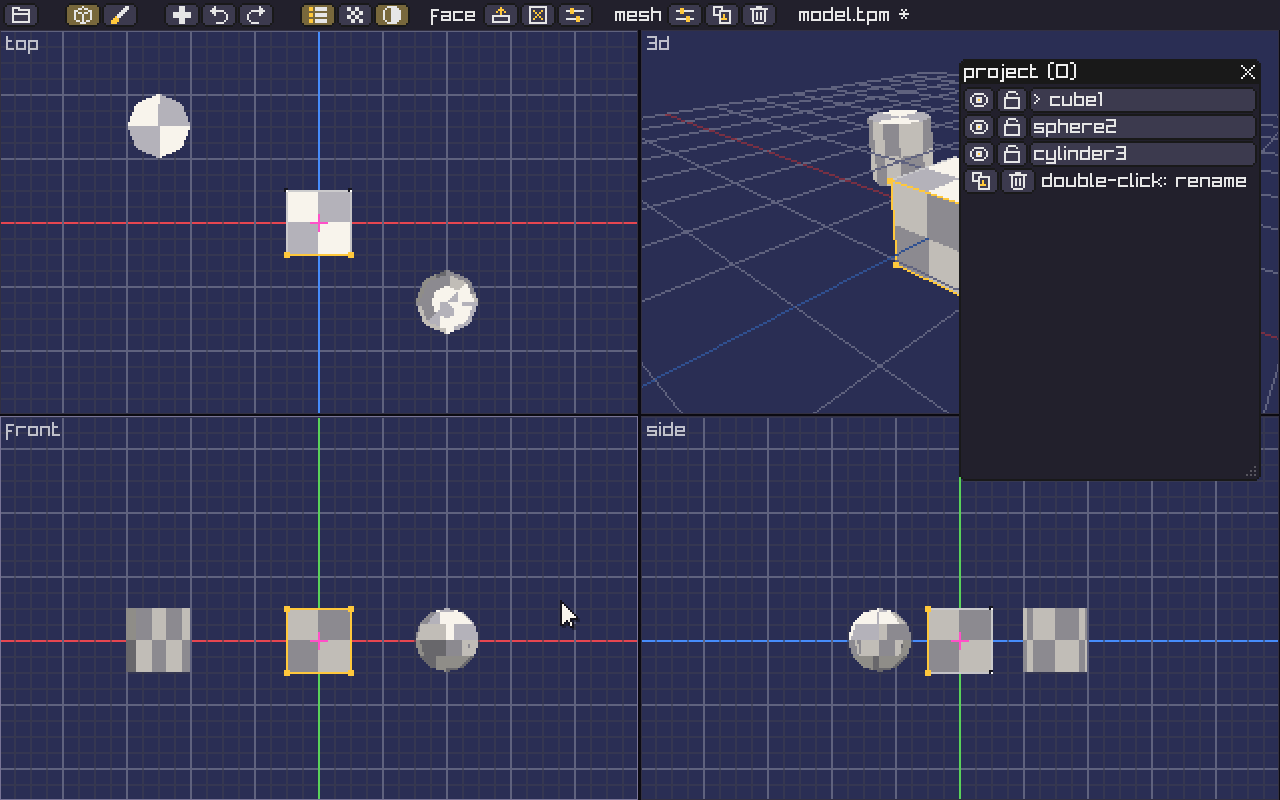
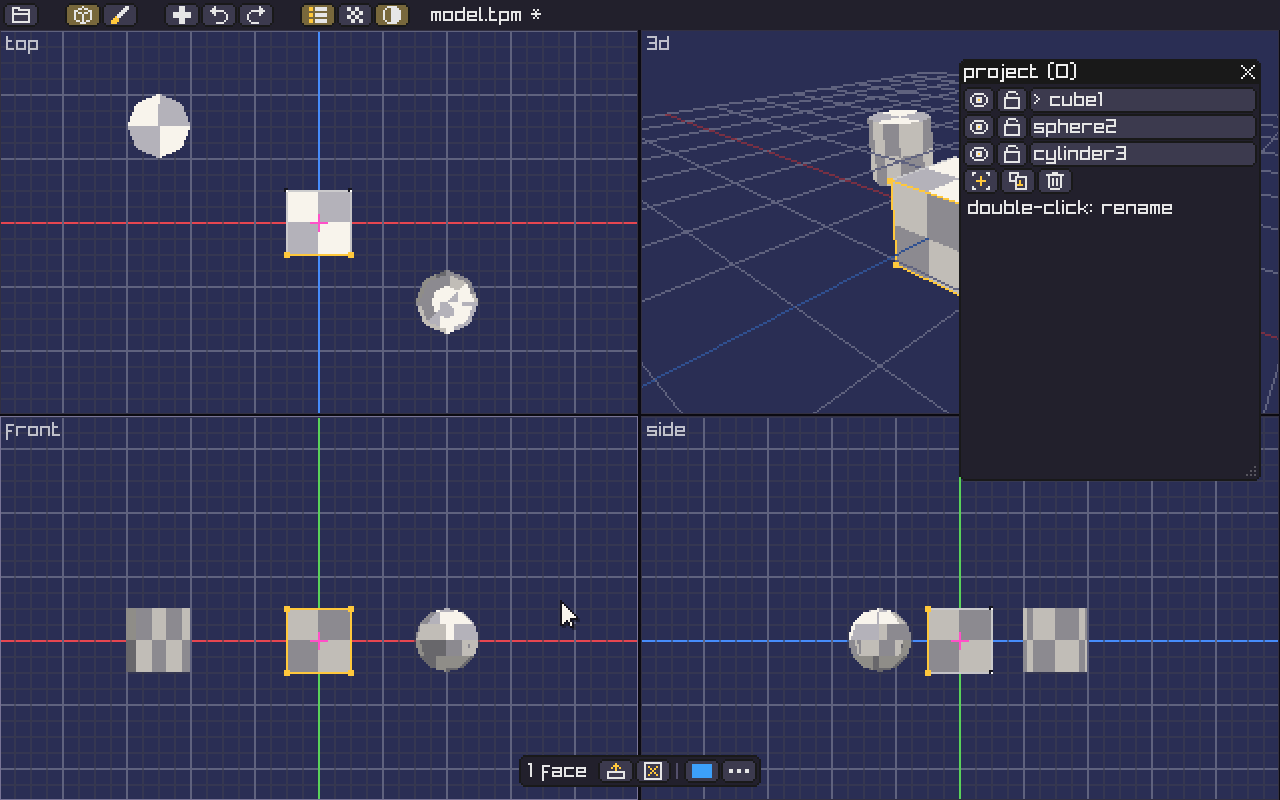
0.5.2: 선택 막대 — 상단바는 고정, 선택 동작은 뷰 아래로
- 면/정점을 고르면 뷰 아래쪽 가운데에 선택 막대 (개수 + 동작 | 설정)
  면: 돌출, 삭제 | 면 색(색 칸), 옵션(...) / 정점: 병합, 스냅, 삭제
- 상단바에서 선택 동작을 빼서 항상 같은 모양
- 메쉬 속성 버튼 제거: 이름·숨김·잠금은 프로젝트 창에 이미 있음,
  원점 가운데로는 프로젝트 창 아이콘으로
- 면 속성 팝업을 색 / 옵션으로 나눠 열 수 있게 (F와 우클릭은 그대로 둘 다)
- 팝업이 화면 밖으로 나가지 않게, 선택 막대에서 연 팝업은 막대 위에

Changed region(s): [[0.75, 0.1875, 0.9688, 0.2812], [0.4062, 0.9375, 0.5938, 1.0], [0.3438, 0.0, 0.7188, 0.0312]]

diff --git a/src/main.c b/src/main.c
@@ -207,6 +207,16 @@ static void face_flag_checkbox(App *a, const char *label, int flag, bool inverte
     if (mu_checkbox(a->ui, label, &on) & MU_RES_CHANGE) model_set_face_flag(a, flag, inverted ? !on : on);
 }
 
+/* 활성 메쉬의 원점(회전·크기 기준점)을 정점들의 가운데로 */
+static void center_origin(App *a) {
+    if (!app_active(a)) return;
+    app_mark(a);
+    Object *o = app_active(a);
+    Vector3 mn = { 1e9f, 1e9f, 1e9f }, mx = { -1e9f, -1e9f, -1e9f };
+    for (int i = 0; i < o->nverts; i++) { mn = Vector3Min(mn, o->verts[i].p); mx = Vector3Max(mx, o->verts[i].p); }
+    if (o->nverts) o->origin = Vector3Scale(Vector3Add(mn, mx), 0.5f);
+}
+
 static void menu_contents(App *a) {
     mu_Context *ctx = a->ui;
     const int w1[] = { 200 };
@@ -246,24 +256,31 @@ static void menu_contents(App *a) {
         if (mu_button(ctx, "copy (ctrl+c)"))         { model_copy(a); close_popup(ctx); }
         if (mu_button(ctx, "delete mesh (ctrl+x)"))  { model_delete_mesh(a); close_popup(ctx); }
         break;
-    case MENU_FACEPROPS: {
+    case MENU_FACEPROPS:
+    case MENU_FACECOLOR:
+    case MENU_FACEOPTS: {
+        /* F/우클릭은 둘 다, 선택 막대의 색 칸은 색만, [...]는 옵션만 */
         Face *f = first_selected_face(a);
         if (!f) { close_popup(ctx); break; }
-        mu_layout_row(ctx, 1, w1, 0);
-        mu_label(ctx, "face color");
-        mu_layout_row(ctx, 8, (int[]){ 22, 22, 22, 22, 22, 22, 22, 22 }, 22);
-        int shown = a->scene.npalette < 64 ? a->scene.npalette : 64;
-        for (int i = 0; i < shown; i++)
-            if (swatch(ctx, 2000 + i, a->scene.palette[i], color_eq(f->color, a->scene.palette[i]), false) == 1)
-                model_set_face_color(a, a->scene.palette[i]);
-        mu_layout_row(ctx, 2, (int[]){ 22, 175 }, 0);
-        ui_swatch(ctx, mu_layout_next(ctx), a->color);
-        if (mu_button(ctx, "use color 1")) model_set_face_color(a, (Color){ a->color.r, a->color.g, a->color.b, 255 });
-        mu_layout_row(ctx, 1, w1, 0);
-        face_flag_checkbox(a, "double sided", FACE_DOUBLE, false);
-        face_flag_checkbox(a, "shaded", FACE_NOSHADE, true);
-        face_flag_checkbox(a, "textured", FACE_NOTEX, true);
-        face_flag_checkbox(a, "draw behind", FACE_BEHIND, false);
+        if (a->menu != MENU_FACEOPTS) {
+            mu_layout_row(ctx, 1, w1, 0);
+            mu_label(ctx, "face color");
+            mu_layout_row(ctx, 8, (int[]){ 22, 22, 22, 22, 22, 22, 22, 22 }, 22);
+            int shown = a->scene.npalette < 64 ? a->scene.npalette : 64;
+            for (int i = 0; i < shown; i++)
+                if (swatch(ctx, 2000 + i, a->scene.palette[i], color_eq(f->color, a->scene.palette[i]), false) == 1)
+                    model_set_face_color(a, a->scene.palette[i]);
+            mu_layout_row(ctx, 2, (int[]){ 22, 175 }, 0);
+            ui_swatch(ctx, mu_layout_next(ctx), a->color);
+            if (mu_button(ctx, "use color 1")) model_set_face_color(a, (Color){ a->color.r, a->color.g, a->color.b, 255 });
+        }
+        if (a->menu != MENU_FACECOLOR) {
+            mu_layout_row(ctx, 1, w1, 0);
+            face_flag_checkbox(a, "double sided", FACE_DOUBLE, false);
+            face_flag_checkbox(a, "shaded", FACE_NOSHADE, true);
+            face_flag_checkbox(a, "textured", FACE_NOTEX, true);
+            face_flag_checkbox(a, "draw behind", FACE_BEHIND, false);
+        }
         break;
     }
     case MENU_MESHPROPS: {
@@ -274,13 +291,7 @@ static void menu_contents(App *a) {
         int hidden = o->hidden, locked = o->locked;
         if (mu_checkbox(ctx, "hidden", &hidden) & MU_RES_CHANGE) { app_mark(a); o = app_active(a); o->hidden = hidden; }
         if (mu_checkbox(ctx, "locked", &locked) & MU_RES_CHANGE) { app_mark(a); o = app_active(a); o->locked = locked; }
-        if (mu_button(ctx, "center to middle")) {
-            app_mark(a);
-            o = app_active(a);
-            Vector3 mn = { 1e9f, 1e9f, 1e9f }, mx = { -1e9f, -1e9f, -1e9f };
-            for (int i = 0; i < o->nverts; i++) { mn = Vector3Min(mn, o->verts[i].p); mx = Vector3Max(mx, o->verts[i].p); }
-            if (o->nverts) o->origin = Vector3Scale(Vector3Add(mn, mx), 0.5f);
-        }
+        if (mu_button(ctx, "center to middle")) center_origin(a);
         break;
     }
     case MENU_UV:
@@ -331,50 +342,6 @@ static void menu_contents(App *a) {
     }
 }
 
-/* 상단바 줄에서 x 위치에 폭 w짜리 칸을 잡고 x를 넘김 */
-static void next_at(mu_Context *ctx, int *x, int w) {
-    mu_layout_set_next(ctx, mu_rect(*x, 0, w, 22), 1);
-    *x += w + ctx->style->spacing;
-}
-
-/* 선택한 것에 따라 쓸 수 있는 동작을 상단바에 보여줌 (우클릭 메뉴와 같은 동작, 키보드 없이도 쓸 수 있게).
-   면 > 정점 중 하나, 메쉬가 골라져 있으면 메쉬 동작도 */
-static void context_actions(App *a, int *x) {
-    mu_Context *ctx = a->ui;
-    Object *o = app_active(a);
-    if (!o) return;
-    int nf = 0, nv = 0;
-    for (int i = 0; i < o->nfaces; i++) nf += o->faces[i].sel;
-    for (int i = 0; i < o->nverts; i++) nv += o->verts[i].sel;
-    const int B = 34, GAP = 16;
-
-    if (nf) {
-        next_at(ctx, x, 54); mu_label(ctx, "face");
-        next_at(ctx, x, B); if (ui_icon_button(ctx, UI_ICON_EXTRUDE, "extrude (E)", false)) model_extrude(a);
-        next_at(ctx, x, B); if (ui_icon_button(ctx, UI_ICON_DEL_FACE, "delete face (X)", false)) model_delete_faces(a);
-        next_at(ctx, x, B);
-        if (ui_icon_button(ctx, UI_ICON_PROPS, "face props: color, sides... (F)", a->menu == MENU_FACEPROPS))
-            app_open_menu(a, MENU_FACEPROPS);
-        *x += GAP;
-    } else if (nv) {
-        next_at(ctx, x, 74); mu_label(ctx, "vertex");
-        next_at(ctx, x, B); if (ui_icon_button(ctx, UI_ICON_MERGE, "merge vertices", false)) model_merge(a);
-        next_at(ctx, x, B); if (ui_icon_button(ctx, UI_ICON_SNAP, "snap to grid", false)) model_snap(a);
-        next_at(ctx, x, B); if (ui_icon_button(ctx, UI_ICON_DEL_VERT, "delete vertex (del)", false)) model_delete_verts(a);
-        *x += GAP;
-    }
-    if (!app_active(a)) return;     /* 위 동작으로 메쉬가 사라졌을 수도 */
-    mu_push_id(ctx, "mesh", 4);     /* 면 속성 버튼과 같은 아이콘이라 구분 */
-    next_at(ctx, x, 54); mu_label(ctx, "mesh");
-    next_at(ctx, x, B);
-    if (ui_icon_button(ctx, UI_ICON_PROPS, "mesh props: name, hide, lock (G)", a->menu == MENU_MESHPROPS))
-        app_open_menu(a, MENU_MESHPROPS);
-    next_at(ctx, x, B); if (ui_icon_button(ctx, UI_ICON_CLONE, "clone mesh", false)) model_clone(a);
-    next_at(ctx, x, B); if (ui_icon_button(ctx, UI_ICON_TRASH, "delete mesh (ctrl+x)", false)) model_delete_mesh(a);
-    mu_pop_id(ctx);
-    *x += GAP;
-}
-
 static void draw_topbar(App *a) {
     mu_Context *ctx = a->ui;
     mu_Container *cnt = mu_get_container(ctx, "top");
@@ -383,13 +350,10 @@ static void draw_topbar(App *a) {
     if (!mu_begin_window_ex(ctx, "top", cnt->rect,
                             MU_OPT_NOTITLE | MU_OPT_NORESIZE | MU_OPT_NOCLOSE | MU_OPT_NOSCROLL | MU_OPT_NOFRAME))
         return;
-    /* [파일]  ·  [모델][텍스처]  ·  [추가][되돌리기][다시]  ·  [프로젝트][렌더][음영]  ·  선택에 따른 동작  파일 이름
+    /* [파일]  ·  [모델][텍스처]  ·  [추가][되돌리기][다시]  ·  [프로젝트][렌더][음영]  파일 이름
        빈 칸(label "")으로 묶음 사이를 띄운다 */
     const int B = 34, GAP = 22;
-    static const int widths[13] = { B, GAP, B, B, GAP, B, B, B, GAP, B, B, B, 12 };
-    mu_layout_row(ctx, 13, widths, 22);
-    int x = 0;   /* 이 줄 다음 칸의 위치 (microui 한 줄은 16칸까지라 뒤쪽은 직접 자리를 잡음) */
-    for (int i = 0; i < 13; i++) x += widths[i] + ctx->style->spacing;
+    mu_layout_row(ctx, 14, (int[]){ B, GAP, B, B, GAP, B, B, B, GAP, B, B, B, 12, -1 }, 22);
     if (ui_icon_button(ctx, UI_ICON_FOLDER, "file", a->menu == MENU_FILE)) app_open_menu(a, MENU_FILE);
     mu_label(ctx, "");
     if (ui_icon_button(ctx, UI_ICON_CUBE, "model mode (tab)", a->mode == MODE_MODEL)) a->mode = MODE_MODEL;
@@ -411,11 +375,59 @@ static void draw_topbar(App *a) {
     if (ui_icon_button(ctx, UI_ICON_SHADE, a->shading ? "shading: on (L)" : "shading: off (L)", a->shading))
         a->shading = !a->shading;
     mu_label(ctx, "");
-    if (a->mode == MODE_MODEL) context_actions(a, &x);
     char buf[300];
     snprintf(buf, sizeof buf, "%s%s", GetFileName(a->path), a->dirty ? " *" : "");   /* 전체 경로는 창 제목에 */
-    next_at(ctx, &x, GetScreenWidth() - x - 16);
     mu_label(ctx, buf);
+    mu_end_window(ctx);
+}
+
+/* 면·정점을 고르면 뷰 아래쪽 가운데에 뜨는 작은 막대.
+   왼쪽은 무엇을 골랐는지, 그다음 동작, 구분선 뒤는 설정 (우클릭 메뉴와 같은 기능) */
+static int g_bar_top;   /* 선택 막대의 위쪽 y (막대에서 연 팝업을 그 위에 띄움) */
+
+static void draw_selection_bar(App *a) {
+    mu_Context *ctx = a->ui;
+    Object *o = app_active(a);
+    int nf = 0, nv = 0;
+    if (o) {
+        for (int i = 0; i < o->nfaces; i++) nf += o->faces[i].sel;
+        for (int i = 0; i < o->nverts; i++) nv += o->verts[i].sel;
+    }
+    if (!nf && !nv) return;
+
+    char label[32];
+    if (nf) snprintf(label, sizeof label, "%d %s", nf, nf == 1 ? "face" : "faces");
+    else snprintf(label, sizeof label, "%d %s", nv, nv == 1 ? "vertex" : "verts");
+    const int B = 34, SEP = 9, L = ctx->text_width(NULL, label, -1) + 14;
+    const int sp = ctx->style->spacing, pad = ctx->style->padding;
+    int w = nf ? L + B * 4 + SEP + sp * 5 : L + B * 3 + sp * 3;
+    w += pad * 2;
+    int h = 22 + pad * 2;
+    mu_Container *cnt = mu_get_container(ctx, "selection");
+    cnt->rect = mu_rect((GetScreenWidth() - w) / 2, GetScreenHeight() - h - 14, w, h);
+    g_bar_top = cnt->rect.y;
+    if (!mu_begin_window_ex(ctx, "selection", cnt->rect,
+                            MU_OPT_NOTITLE | MU_OPT_NORESIZE | MU_OPT_NOCLOSE | MU_OPT_NOSCROLL))
+        return;
+    if (nf) {
+        mu_layout_row(ctx, 6, (int[]){ L, B, B, SEP, B, B }, 22);
+        mu_label(ctx, label);
+        if (ui_icon_button(ctx, UI_ICON_EXTRUDE, "extrude (E)", false)) model_extrude(a);
+        if (ui_icon_button(ctx, UI_ICON_DEL_FACE, "delete face (X)", false)) model_delete_faces(a);
+        mu_Rect r = mu_layout_next(ctx);
+        mu_draw_rect(ctx, mu_rect(r.x + r.w / 2 - 1, r.y + 3, 2, r.h - 6), mu_color(84, 80, 108, 255));
+        Face *f = first_selected_face(a);
+        if (f && ui_swatch_button(ctx, f->color, "face color (shown where untextured)", a->menu == MENU_FACECOLOR))
+            app_open_menu(a, MENU_FACECOLOR);
+        if (ui_icon_button(ctx, UI_ICON_MORE, "face options: double sided, shading... (F)", a->menu == MENU_FACEOPTS))
+            app_open_menu(a, MENU_FACEOPTS);
+    } else {
+        mu_layout_row(ctx, 4, (int[]){ L, B, B, B }, 22);
+        mu_label(ctx, label);
+        if (ui_icon_button(ctx, UI_ICON_MERGE, "merge vertices", false)) model_merge(a);
+        if (ui_icon_button(ctx, UI_ICON_SNAP, "snap to grid", false)) model_snap(a);
+        if (ui_icon_button(ctx, UI_ICON_DEL_VERT, "delete vertex (del)", false)) model_delete_verts(a);
+    }
     mu_end_window(ctx);
 }
 
@@ -460,10 +472,12 @@ static void draw_overview(App *a) {
         }
         mu_pop_id(ctx);
     }
-    /* 선택한 메쉬 복제/삭제 */
-    mu_layout_row(ctx, 3, (int[]){ 34, 34, -1 }, 0);
+    /* 선택한 메쉬: 원점 가운데로 / 복제 / 삭제 */
+    mu_layout_row(ctx, 3, (int[]){ 34, 34, 34 }, 0);
+    if (ui_icon_button(ctx, UI_ICON_CENTER, "center origin of selected mesh", false)) center_origin(a);
     if (ui_icon_button(ctx, UI_ICON_CLONE, "clone selected mesh", false)) model_clone(a);
     if (ui_icon_button(ctx, UI_ICON_TRASH, "delete selected mesh (ctrl+x)", false)) model_delete_mesh(a);
+    mu_layout_row(ctx, 1, (int[]){ -1 }, 0);
     mu_label(ctx, "double-click: rename");
     ui_end_window(ctx);
 }
@@ -594,6 +608,7 @@ static void build_ui(App *a) {
     ui_tooltip_begin();
     mu_begin(ctx);
     draw_topbar(a);
+    if (a->mode == MODE_MODEL) draw_selection_bar(a);
     if (a->show_overview) draw_overview(a);
     if (a->show_color) draw_color_window(a);
     if (a->show_export) draw_export_window(a);
@@ -602,6 +617,10 @@ static void build_ui(App *a) {
         mu_open_popup(ctx, "menu");
         a->open_menu = false;
     }
+    mu_Container *pop = mu_get_container(ctx, "menu");
+    if (pop->rect.x + pop->rect.w > GetScreenWidth() - 4) pop->rect.x = GetScreenWidth() - 4 - pop->rect.w;
+    if (pop->rect.y + pop->rect.h > GetScreenHeight() - 4) pop->rect.y = GetScreenHeight() - 4 - pop->rect.h;
+    if (a->menu == MENU_FACECOLOR || a->menu == MENU_FACEOPTS) pop->rect.y = g_bar_top - pop->rect.h - 6;
     if (mu_begin_popup(ctx, "menu")) {
         menu_contents(a);
         mu_end_popup(ctx);

diff --git a/src/ui.c b/src/ui.c
@@ -334,15 +334,22 @@ static const char *ICON_ART[UI_ICON_END - UI_ICON_FOLDER][10] = {
         "X.......X",
         "XXXXXXXXX",
     },
-    /* 속성: 슬라이더 두 개 */
-    [UI_ICON_PROPS - UI_ICON_FOLDER] = {
-        "..AA.....",
-        "XXAAXXXXX",
-        "..AA.....",
-        ".........",
-        ".....AA..",
-        "XXXXXAAXX",
-        ".....AA..",
+    /* 더 보기: 점 세 개 */
+    [UI_ICON_MORE - UI_ICON_FOLDER] = {
+        "XX..XX..XX",
+        "XX..XX..XX",
+    },
+    /* 원점을 가운데로: 네 모서리 안의 십자 */
+    [UI_ICON_CENTER - UI_ICON_FOLDER] = {
+        "XX.....XX",
+        "X.......X",
+        "....A....",
+        "....A....",
+        "..AAAAA..",
+        "....A....",
+        "....A....",
+        "X.......X",
+        "XX.....XX",
     },
     /* 정점 둘이 하나로 */
     [UI_ICON_MERGE - UI_ICON_FOLDER] = {
@@ -689,6 +696,17 @@ static mu_Id g_tip_id;
 static double g_tip_since;
 static bool g_tip_seen;
 
+/* 마우스가 id 위에 머물면 tip을 툴팁으로 */
+static void track_tip(mu_Context *ctx, mu_Id id, const char *tip) {
+    if (!tip || ctx->hover != id) return;
+    if (g_tip_id != id) {
+        g_tip_id = id;
+        g_tip_since = GetTime();
+    }
+    g_tip = tip;
+    g_tip_seen = true;
+}
+
 bool ui_icon_button(mu_Context *ctx, int icon, const char *tip, bool active) {
     /* 켜진 상태는 버튼 색을 강조색 쪽으로 바꿔서 그림 */
     mu_Color saved[3];
@@ -702,15 +720,18 @@ bool ui_icon_button(mu_Context *ctx, int icon, const char *tip, bool active) {
     if (active)
         for (int i = 0; i < 3; i++) ctx->style->colors[MU_COLOR_BUTTON + i] = saved[i];
 
-    mu_Id id = ctx->last_id;
-    if (tip && ctx->hover == id) {
-        if (g_tip_id != id) {
-            g_tip_id = id;
-            g_tip_since = GetTime();
-        }
-        g_tip = tip;
-        g_tip_seen = true;
-    }
+    track_tip(ctx, ctx->last_id, tip);
+    return clicked;
+}
+
+bool ui_swatch_button(mu_Context *ctx, Color c, const char *tip, bool active) {
+    mu_Id id = mu_get_id(ctx, tip, (int)strlen(tip));
+    mu_Rect r = mu_layout_next(ctx);
+    mu_update_control(ctx, id, r, 0);
+    bool clicked = ctx->mouse_pressed == MU_MOUSE_LEFT && ctx->focus == id;
+    ctx->draw_frame(ctx, r, active ? MU_COLOR_BUTTONFOCUS : ctx->hover == id ? MU_COLOR_BUTTONHOVER : MU_COLOR_BUTTON);
+    ui_swatch(ctx, mu_rect(r.x + 7, r.y + 4, r.w - 14, r.h - 8), c);
+    track_tip(ctx, id, tip);
     return clicked;
 }
 

diff --git a/src/ui.h b/src/ui.h
@@ -15,7 +15,7 @@ enum {
     UI_ICON_EYE, UI_ICON_EYE_OFF, UI_ICON_LOCK, UI_ICON_UNLOCK,
     UI_ICON_CLONE, UI_ICON_TRASH, UI_ICON_CLOSE,
     /* 선택에 따른 모델 동작 */
-    UI_ICON_EXTRUDE, UI_ICON_DEL_FACE, UI_ICON_PROPS, UI_ICON_MERGE, UI_ICON_SNAP, UI_ICON_DEL_VERT,
+    UI_ICON_EXTRUDE, UI_ICON_DEL_FACE, UI_ICON_MORE, UI_ICON_MERGE, UI_ICON_SNAP, UI_ICON_DEL_VERT, UI_ICON_CENTER,
     /* 텍스처 도구줄 */
     UI_ICON_UV, UI_ICON_PEN, UI_ICON_PICK, UI_ICON_FILL, UI_ICON_LINE, UI_ICON_RECT, UI_ICON_RECT_FILL,
     UI_ICON_CIRCLE, UI_ICON_CIRCLE_FILL, UI_ICON_SELECT, UI_ICON_GRID, UI_ICON_ZOOM_OUT, UI_ICON_ZOOM_IN, UI_ICON_FIT,
@@ -31,6 +31,8 @@ void ui_render(mu_Context *ctx);
 /* 아이콘 버튼: 잠시 올려두면 tip이 툴팁으로 뜸. active면 눌린 상태로 칠함.
    같은 아이콘을 같은 범위에서 여러 번 쓰면 mu_push_id로 구분할 것 */
 bool ui_icon_button(mu_Context *ctx, int icon, const char *tip, bool active);
+/* 색 칸이 들어간 버튼 (지금 색을 보여주고 누르면 고르기) */
+bool ui_swatch_button(mu_Context *ctx, Color c, const char *tip, bool active);
 /* 켜진 상태를 강조색으로 보여주는 글자 버튼 */
 bool ui_toggle_button(mu_Context *ctx, const char *label, bool active);
 

diff --git a/src/app.h b/src/app.h
@@ -16,7 +16,7 @@ enum { TOOL_UV, TOOL_PEN, TOOL_PICK, TOOL_FILL, TOOL_LINE, TOOL_RECT, TOOL_CIRCL
 
 typedef enum {
     MENU_NONE, MENU_ADD, MENU_VERTEX, MENU_FACE, MENU_MESH,
-    MENU_FACEPROPS, MENU_MESHPROPS, MENU_FILE, MENU_UV, MENU_TEXSIZE,
+    MENU_FACEPROPS, MENU_FACECOLOR, MENU_FACEOPTS, MENU_MESHPROPS, MENU_FILE, MENU_UV, MENU_TEXSIZE,
 } MenuKind;
 
 typedef struct {

diff --git a/README.md b/README.md
@@ -7,7 +7,7 @@
 4분할 뷰에서 클릭·드래그로 메쉬를 만들고, 최대 1024×1024 텍스처를 직접 그려서<br>
 OBJ / glTF / GLB로 내보냅니다.
 
-![version](https://img.shields.io/badge/version-0.5.1-f8c040)
+![version](https://img.shields.io/badge/version-0.5.2-f8c040)
 ![language](https://img.shields.io/badge/C23-raylib%205.5-3ca0fa)
 ![platform](https://img.shields.io/badge/platform-Windows%20%7C%20macOS%20%7C%20Linux-8474be)
 ![license](https://img.shields.io/badge/license-MIT-50d250)
@@ -28,9 +28,9 @@ OBJ / glTF / GLB로 내보냅니다.
 - **기본 도형 7종** — plane, cube, prism, pyramid, cylinder, cone, sphere (빈 곳 우클릭 → 보고 있는 뷰를 향해 생성)
 - **클릭·드래그 편집** — 메쉬/정점 드래그로 이동, `R`+드래그 회전, `T`+드래그 크기, 드래그 중 `Shift`로 중심점 이동, `Ctrl`로 그리드 스냅 반전
 - **면 편집** — 돌출(`E`), 삭제(`X`), 미러, 복제, 정점 병합·스냅
-- **선택에 따른 버튼** — 면·정점·메쉬를 고르면 상단바에 쓸 수 있는 동작이 아이콘으로 나타남 (키보드 없이도, 우클릭 메뉴와 같은 기능)
+- **선택 막대** — 면이나 정점을 고르면 뷰 아래쪽에 몇 개를 골랐는지와 쓸 수 있는 동작이 나타남 (면: 돌출·삭제·면 색·옵션 / 정점: 병합·스냅·삭제). 키보드 없이도, 우클릭 메뉴와 같은 기능
 - **면 속성(`F`)** — 색, 양면, 음영, 텍스처, 뒤에 그리기
-- **프로젝트 목록(`O`)** — 숨김(눈), 잠금(자물쇠), 이름 변경, 복제, 삭제
+- **프로젝트 목록(`O`)** — 숨김(눈), 잠금(자물쇠), 이름 변경, 원점 가운데로, 복제, 삭제
 - 3단계 플랫 음영, 투명 픽셀 처리, 텍스처/단색/와이어 렌더(`M`), 음영 전환(`L`)
 - 상단바는 도트 아이콘 — 마우스를 잠시 올리면 이름과 단축키가 툴팁으로 표시
 
